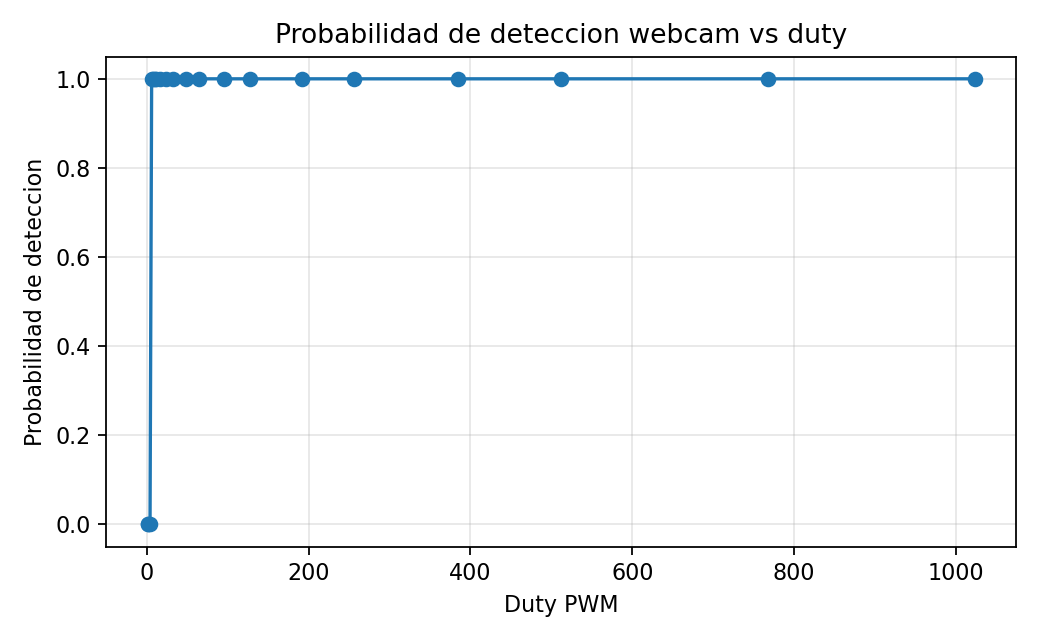
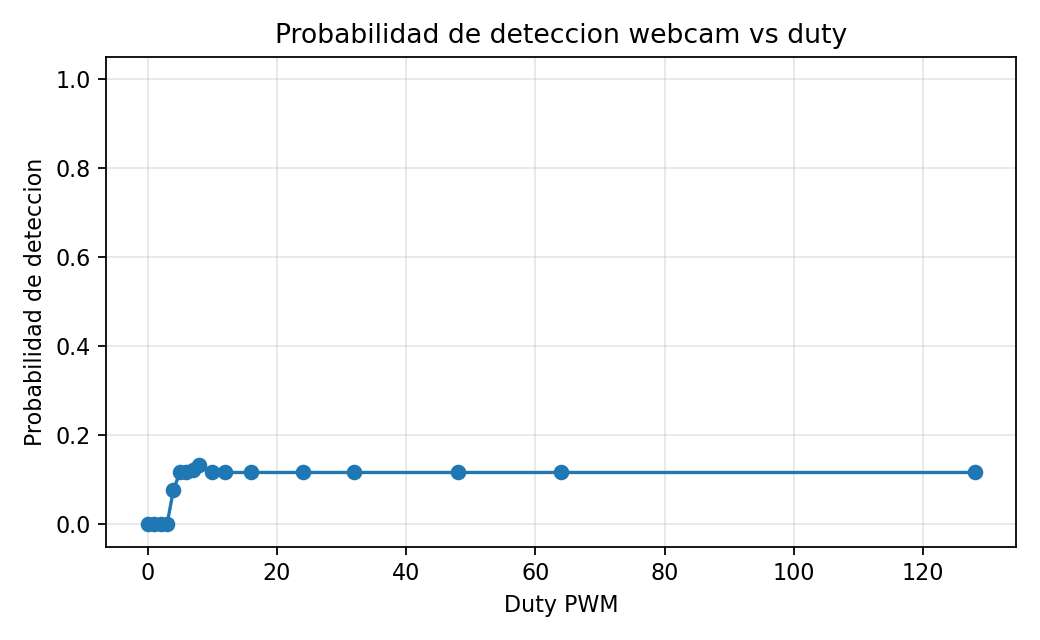
mas post

diff --git a/analysis/aggregate.py b/analysis/aggregate.py
@@ -785,6 +785,18 @@ def collect_dual_random_train(
 def _webcam_intensity_markdown(summary_rows: list[dict[str, object]]) -> str:
     threshold_row = next((row for row in summary_rows if float(row["mean_detection_probability"]) >= 0.5), None)
     findings = []
+    pulse_counts = [
+        int(row["expected_total_pulses"])
+        for row in summary_rows
+        if str(row.get("expected_total_pulses", "")).isdigit()
+    ]
+    pulse_limit = (
+        f"Cada duty agrega hasta `{min(pulse_counts)}`-`{max(pulse_counts)}` pulsos esperados según `led_ack`."
+        if pulse_counts and min(pulse_counts) != max(pulse_counts)
+        else f"Cada duty agrega `{pulse_counts[0]}` pulsos esperados según `led_ack`."
+        if pulse_counts
+        else "La cantidad de pulsos esperados no está disponible en los CSV fuente."
+    )
     if threshold_row:
         findings.append(f"- La webcam empieza a mostrar deteccion consistente desde `duty {threshold_row['duty']}` en estas corridas heredadas.")
     if summary_rows:
@@ -814,7 +826,7 @@ def _webcam_intensity_markdown(summary_rows: list[dict[str, object]]) -> str:
             ),
             "",
             "## Limitaciones",
-            "- Estas probabilidades provienen de trenes cortos de `3` pulsos por condición; sirven para comparaciones iniciales, no para estadística final.",
+            f"- {pulse_limit} La probabilidad usa eventos detectados acotados por pulsos esperados; no identifica qué pulso individual disparó cada detección.",
             "- La métrica es detectabilidad de la cadena webcam + umbral actual, no radiometría del LED.",
         ]
     )

diff --git a/data/derived/presentation/webcam_intensity_summary.md b/data/derived/presentation/webcam_intensity_summary.md
@@ -1,33 +1,29 @@
 # Resumen de estudio: barrido de intensidad webcam
 
 ## Hallazgos
-- La webcam empieza a mostrar deteccion consistente desde `duty 6` en estas corridas heredadas.
-- El mejor promedio de deteccion en esta familia fue `p=1.0` en `duty 6`.
+- El mejor promedio de deteccion en esta familia fue `p=0.133334` en `duty 8`.
 
 ## Tabla agregada por duty
 | duty | replicates | mean_detection_probability | median_detection_probability | bounded_detected_total | detected_total_events | expected_total_pulses |
 | --- | --- | --- | --- | --- | --- | --- |
-| 1 | 1 | 0.0 | 0.0 | 0 | 0 | 3 |
-| 2 | 1 | 0.0 | 0.0 | 0 | 0 | 3 |
-| 4 | 1 | 0.0 | 0.0 | 0 | 0 | 3 |
-| 6 | 1 | 1.0 | 1.0 | 3 | 3 | 3 |
-| 8 | 3 | 1.0 | 1.0 | 9 | 9 | 9 |
-| 10 | 1 | 1.0 | 1.0 | 3 | 3 | 3 |
-| 12 | 1 | 1.0 | 1.0 | 3 | 3 | 3 |
-| 16 | 3 | 1.0 | 1.0 | 9 | 9 | 9 |
-| 24 | 3 | 1.0 | 1.0 | 9 | 9 | 9 |
-| 32 | 3 | 1.0 | 1.0 | 9 | 9 | 9 |
-| 48 | 2 | 1.0 | 1.0 | 6 | 6 | 6 |
-| 64 | 2 | 1.0 | 1.0 | 6 | 6 | 6 |
-| 96 | 2 | 1.0 | 1.0 | 6 | 6 | 6 |
-| 128 | 2 | 1.0 | 1.0 | 6 | 6 | 6 |
-| 192 | 2 | 1.0 | 1.0 | 6 | 6 | 6 |
-| 256 | 2 | 1.0 | 1.0 | 6 | 6 | 6 |
-| 384 | 2 | 1.0 | 1.0 | 6 | 6 | 6 |
-| 512 | 2 | 1.0 | 1.0 | 6 | 6 | 6 |
-| 768 | 2 | 1.0 | 1.0 | 6 | 6 | 6 |
-| 1023 | 2 | 1.0 | 1.0 | 6 | 6 | 6 |
+| 0 | 3 | 0.0 | 0.0 | 0 | 0 | 180 |
+| 1 | 3 | 0.0 | 0.0 | 0 | 0 | 180 |
+| 2 | 3 | 0.0 | 0.0 | 0 | 0 | 180 |
+| 3 | 3 | 0.0 | 0.0 | 0 | 0 | 180 |
+| 4 | 3 | 0.077778 | 0.066667 | 14 | 14 | 180 |
+| 5 | 3 | 0.116667 | 0.116667 | 21 | 21 | 180 |
+| 6 | 3 | 0.116667 | 0.116667 | 21 | 21 | 180 |
+| 7 | 3 | 0.122222 | 0.116667 | 22 | 22 | 180 |
+| 8 | 3 | 0.133334 | 0.116667 | 24 | 24 | 180 |
+| 10 | 3 | 0.116667 | 0.116667 | 21 | 21 | 180 |
+| 12 | 3 | 0.116667 | 0.116667 | 21 | 21 | 180 |
+| 16 | 3 | 0.116667 | 0.116667 | 21 | 21 | 180 |
+| 24 | 3 | 0.116667 | 0.116667 | 21 | 21 | 180 |
+| 32 | 3 | 0.116667 | 0.116667 | 21 | 21 | 180 |
+| 48 | 3 | 0.116667 | 0.116667 | 21 | 21 | 180 |
+| 64 | 3 | 0.116667 | 0.116667 | 21 | 21 | 180 |
+| 128 | 3 | 0.116667 | 0.116667 | 21 | 21 | 180 |
 
 ## Limitaciones
-- Estas probabilidades provienen de trenes cortos de `3` pulsos por condición; sirven para comparaciones iniciales, no para estadística final.
+- Cada duty agrega `180` pulsos esperados según `led_ack`. La probabilidad usa eventos detectados acotados por pulsos esperados; no identifica qué pulso individual disparó cada detección.
 - La métrica es detectabilidad de la cadena webcam + umbral actual, no radiometría del LED.
